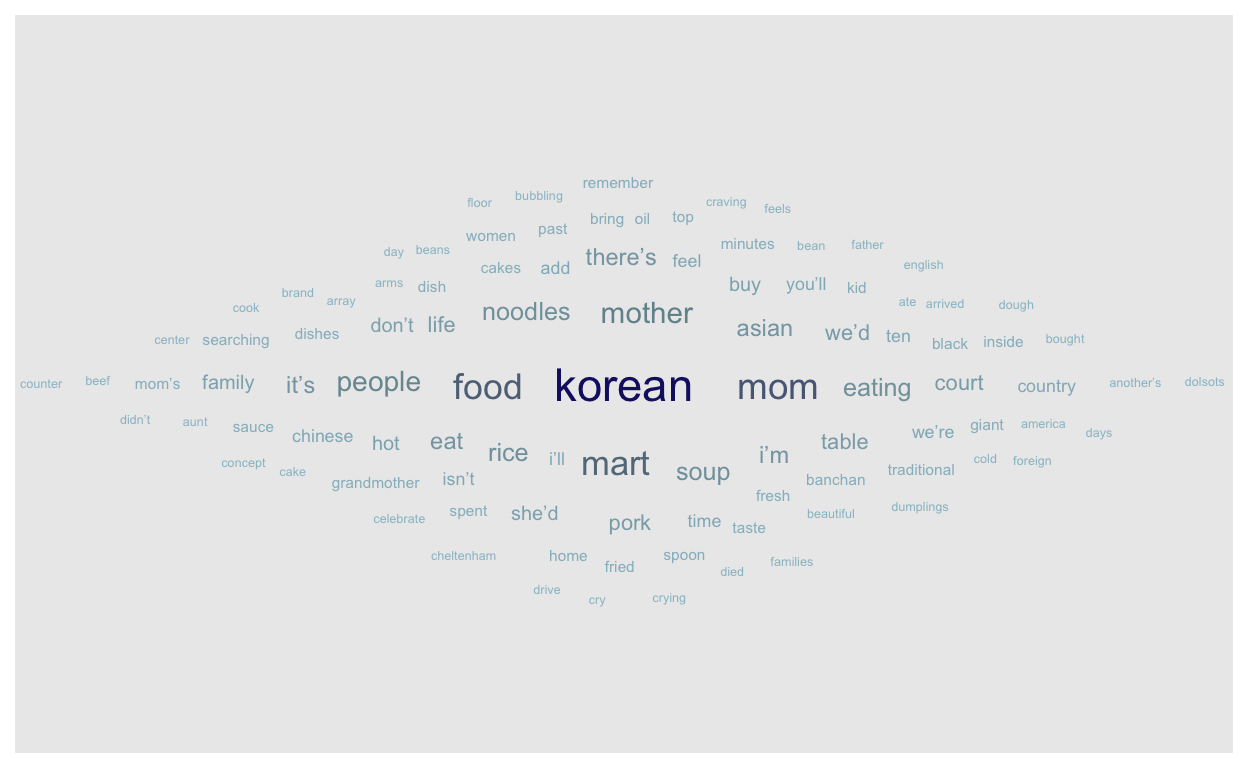
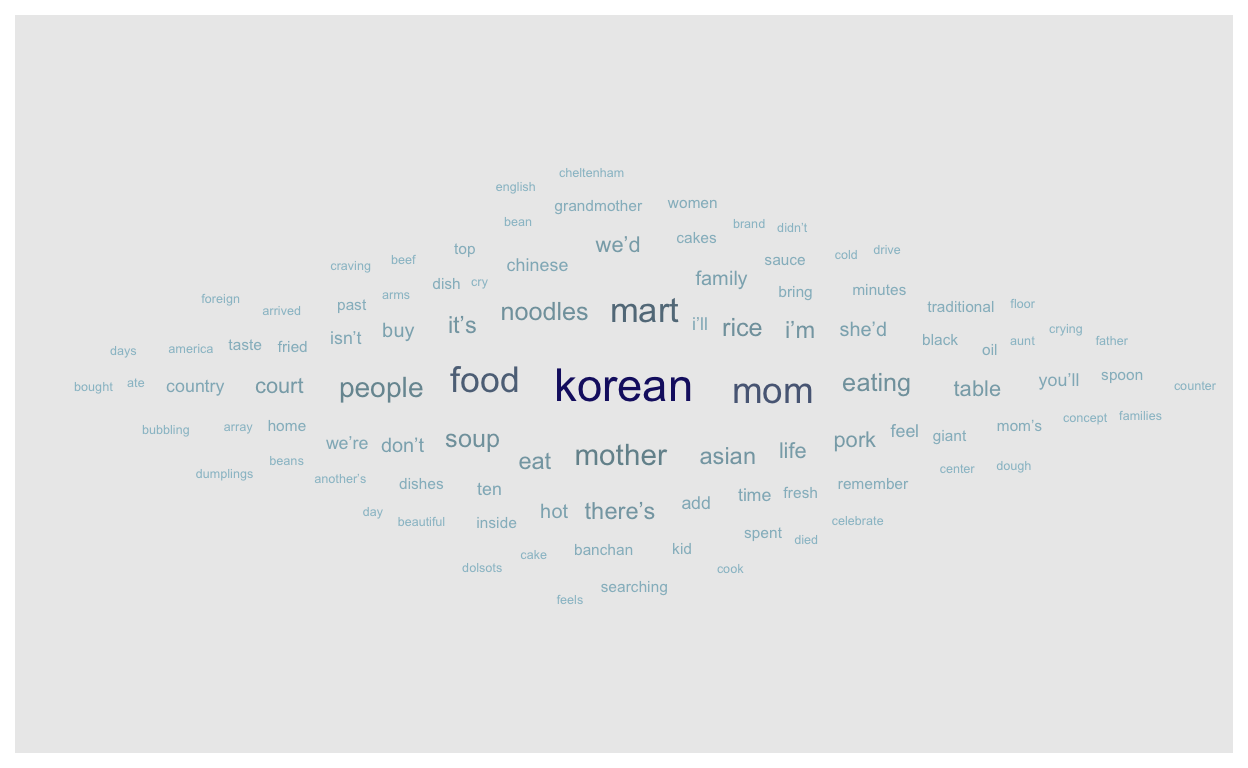
Updated text analysis post to match finalized assignment

diff --git a/docs/posts/2022-03-13-textanalysis/index.html b/docs/posts/2022-03-13-textanalysis/index.html
@@ -2405,7 +2405,7 @@ d-appendix d-footnote-list a.footnote-backlink {
 <a href="../../index.html">Home</a>
 <a href="../../about.html">About Me</a>
 <a href="../../blog.html">Blog</a>
-<a href="../../resume.pdf">CV</a>
+<a href="../../resume.pdf">Resume</a>
 <a href="javascript:void(0);" class="nav-toggle">&#9776;</a>
 </div>
 </nav>
@@ -2430,12 +2430,12 @@ d-appendix d-footnote-list a.footnote-backlink {
 <div class="d-article">
 <h2 id="overview">Overview</h2>
 <h4 id="summary">Summary</h4>
-<p>In 2018, Michelle Zauner wrote an essay for the New Yorker about her connections with the Korean supermarket, H Mart, to her late mother. This piece later turned into a full-book that debuted on the The New York Times nonfiction best-seller list. Text analysis will be performed on the original New Yorker article to find the most common words in this article to be put into a word cloud. Furthermore, sentiment analysis will be done on the text using the NRC Emotion Lexicon. The NRC Emotion Lexicon is a list that associates English words to two sentiments (negative and positive) and eight basic emotions (anger, fear, anticipation, trust, surprise, sadness, joy, and disgust).</p>
+<p>In 2018, Michelle Zauner wrote an essay for <em>The New Yorker</em> about her connections with the Korean supermarket, H Mart, to her late mother. This piece titled “Crying in H Mart” later turned into a full book that debuted on the <em>The New York Times</em> nonfiction best-seller list. Text analysis will be performed on the original <em>New Yorker</em> article to find the most common words in this article to be put into a word cloud. Furthermore, sentiment analysis will be done on the text using the NRC Emotion Lexicon. The NRC Emotion Lexicon is a list that associates English words to two sentiments (negative and positive) and eight basic emotions (anger, fear, anticipation, trust, surprise, sadness, joy, and disgust).</p>
 <figure>
 <img src="hmart.jpg" style="width:80.0%" alt="Crying in H Mart, 2018. Illustration by Andrea Mongia" /><figcaption aria-hidden="true"><em>Crying in H Mart, 2018.</em> Illustration by Andrea Mongia</figcaption>
 </figure>
 <h4 id="citation">Citation</h4>
-<p>Zauner, M. (2018, August 20). Crying in H Mart. The New Yorker. Retrieved March 6, 2022, from <a href="https://www.newyorker.com/culture/culture-desk/crying-in-h-mart" class="uri">https://www.newyorker.com/culture/culture-desk/crying-in-h-mart</a></p>
+<p>Zauner, M. (2018, August 20). Crying in H Mart. <em>The New Yorker</em>. Retrieved March 6, 2022, from <a href="https://www.newyorker.com/culture/culture-desk/crying-in-h-mart" class="uri">https://www.newyorker.com/culture/culture-desk/crying-in-h-mart</a></p>
 <h2 id="setup">Setup</h2>
 <div class="layout-chunk" data-layout="l-body">
 <details>
@@ -2490,7 +2490,7 @@ Show Code
 Show Code
 </summary>
 <div class="sourceCode">
-<pre class="sourceCode r"><code class="sourceCode r"><span class='co'># Getting word counts and wrangling to eliminate stop words</span>
+<pre class="sourceCode r"><code class="sourceCode r"><span class='co'># Retrieving word counts and wrangling to get rid of stop words</span>
 <span class='va'>hmart_words</span> <span class='op'>&lt;-</span> <span class='va'>hmart_lines</span> <span class='op'><a href='https://magrittr.tidyverse.org/reference/pipe.html'>%&gt;%</a></span> 
   <span class='fu'><a href='https://rdrr.io/pkg/tidytext/man/unnest_tokens.html'>unnest_tokens</a></span><span class='op'>(</span><span class='va'>word</span>, <span class='va'>full_text</span>, token <span class='op'>=</span> <span class='st'>'words'</span><span class='op'>)</span> <span class='op'><a href='https://magrittr.tidyverse.org/reference/pipe.html'>%&gt;%</a></span> 
   <span class='fu'><a href='https://dplyr.tidyverse.org/reference/select.html'>select</a></span><span class='op'>(</span><span class='op'>-</span><span class='va'>hmart_text</span><span class='op'>)</span> 
@@ -2530,6 +2530,7 @@ Show Code
 </details>
 <p><img src="textanalysis_files/figure-html5/unnamed-chunk-4-1.png" width="624" /></p>
 </div>
+<p><em><strong>Figure 1.</strong> Word cloud of the 100 most frequent words in the article, excluding stop words. Data: Zauner (2018).</em></p>
 <p><strong>Takeaways:</strong></p>
 <ul>
 <li>The most common word found in the article was “Korean”, showing the emphasis on Korean culture linked between Zauner’s Korean mother, Korean food, and the Korean supermarket, H Mart</li>
@@ -2543,13 +2544,15 @@ Show Code
 Show Code
 </summary>
 <div class="sourceCode">
-<pre class="sourceCode r"><code class="sourceCode r"><span class='va'>hmart_nrc</span> <span class='op'>&lt;-</span> <span class='va'>hmart_words_clean</span> <span class='op'><a href='https://magrittr.tidyverse.org/reference/pipe.html'>%&gt;%</a></span> 
+<pre class="sourceCode r"><code class="sourceCode r"><span class='co'># Retrieving NRC sentiments and getting NRC sentiment word counts</span>
+<span class='va'>hmart_nrc</span> <span class='op'>&lt;-</span> <span class='va'>hmart_words_clean</span> <span class='op'><a href='https://magrittr.tidyverse.org/reference/pipe.html'>%&gt;%</a></span> 
   <span class='fu'><a href='https://dplyr.tidyverse.org/reference/mutate-joins.html'>inner_join</a></span><span class='op'>(</span><span class='fu'><a href='https://rdrr.io/pkg/tidytext/man/get_sentiments.html'>get_sentiments</a></span><span class='op'>(</span><span class='st'>'nrc'</span><span class='op'>)</span><span class='op'>)</span>
 
 <span class='va'>hmart_nrc_counts</span> <span class='op'>&lt;-</span> <span class='va'>hmart_nrc</span> <span class='op'><a href='https://magrittr.tidyverse.org/reference/pipe.html'>%&gt;%</a></span> 
   <span class='fu'><a href='https://dplyr.tidyverse.org/reference/count.html'>count</a></span><span class='op'>(</span><span class='va'>sentiment</span><span class='op'>)</span> <span class='op'><a href='https://magrittr.tidyverse.org/reference/pipe.html'>%&gt;%</a></span> 
   <span class='fu'><a href='https://dplyr.tidyverse.org/reference/arrange.html'>arrange</a></span><span class='op'>(</span><span class='op'>-</span><span class='va'>n</span><span class='op'>)</span> 
 
+<span class='co'># Plotting the results of NRC sentiment analysis</span>
 <span class='fu'><a href='https://ggplot2.tidyverse.org/reference/ggplot.html'>ggplot</a></span><span class='op'>(</span><span class='va'>hmart_nrc_counts</span>, 
        <span class='fu'><a href='https://ggplot2.tidyverse.org/reference/aes.html'>aes</a></span><span class='op'>(</span>x <span class='op'>=</span> <span class='fu'><a href='https://forcats.tidyverse.org/reference/fct_reorder.html'>fct_reorder</a></span><span class='op'>(</span><span class='va'>sentiment</span>, <span class='va'>n</span><span class='op'>)</span>, y <span class='op'>=</span> <span class='va'>n</span>, fill <span class='op'>=</span> <span class='va'>n</span><span class='op'>)</span><span class='op'>)</span> <span class='op'>+</span>
   <span class='fu'><a href='https://ggplot2.tidyverse.org/reference/geom_bar.html'>geom_col</a></span><span class='op'>(</span><span class='op'>)</span> <span class='op'>+</span>
@@ -2563,6 +2566,7 @@ Show Code
 </details>
 <p><img src="textanalysis_files/figure-html5/unnamed-chunk-5-1.png" width="624" /></p>
 </div>
+<p><em><strong>Figure 2.</strong> Counts of words associated with two sentiments (negative and positive) and eight basic emotions (anger, fear, anticipation, trust, surprise, sadness, joy, and disgust) based on the NRC Emotion Lexicon. Data: Zauner (2018).</em></p>
 <p><strong>Takeaways:</strong></p>
 <ul>
 <li>Despite the article dealing with grief, there were more counts of words with positive associations than negative. This possibly correlates with Zauner’s fond memories of her mother being more present in the article rather than discussing her mother’s death</li>

diff --git a/_posts/2022-03-13-textanalysis/textanalysis.html b/_posts/2022-03-13-textanalysis/textanalysis.html
@@ -1484,12 +1484,12 @@ code span.wa { color: #5e5e5e; font-style: italic; } /* Warning */
 <div class="d-article">
 <h2 id="overview">Overview</h2>
 <h4 id="summary">Summary</h4>
-<p>In 2018, Michelle Zauner wrote an essay for the New Yorker about her connections with the Korean supermarket, H Mart, to her late mother. This piece later turned into a full-book that debuted on the The New York Times nonfiction best-seller list. Text analysis will be performed on the original New Yorker article to find the most common words in this article to be put into a word cloud. Furthermore, sentiment analysis will be done on the text using the NRC Emotion Lexicon. The NRC Emotion Lexicon is a list that associates English words to two sentiments (negative and positive) and eight basic emotions (anger, fear, anticipation, trust, surprise, sadness, joy, and disgust).</p>
+<p>In 2018, Michelle Zauner wrote an essay for <em>The New Yorker</em> about her connections with the Korean supermarket, H Mart, to her late mother. This piece titled “Crying in H Mart” later turned into a full book that debuted on the <em>The New York Times</em> nonfiction best-seller list. Text analysis will be performed on the original <em>New Yorker</em> article to find the most common words in this article to be put into a word cloud. Furthermore, sentiment analysis will be done on the text using the NRC Emotion Lexicon. The NRC Emotion Lexicon is a list that associates English words to two sentiments (negative and positive) and eight basic emotions (anger, fear, anticipation, trust, surprise, sadness, joy, and disgust).</p>
 <figure>
 <img src="hmart.jpg" style="width:80.0%" alt="Crying in H Mart, 2018. Illustration by Andrea Mongia" /><figcaption aria-hidden="true"><em>Crying in H Mart, 2018.</em> Illustration by Andrea Mongia</figcaption>
 </figure>
 <h4 id="citation">Citation</h4>
-<p>Zauner, M. (2018, August 20). Crying in H Mart. The New Yorker. Retrieved March 6, 2022, from <a href="https://www.newyorker.com/culture/culture-desk/crying-in-h-mart" class="uri">https://www.newyorker.com/culture/culture-desk/crying-in-h-mart</a></p>
+<p>Zauner, M. (2018, August 20). Crying in H Mart. <em>The New Yorker</em>. Retrieved March 6, 2022, from <a href="https://www.newyorker.com/culture/culture-desk/crying-in-h-mart" class="uri">https://www.newyorker.com/culture/culture-desk/crying-in-h-mart</a></p>
 <h2 id="setup">Setup</h2>
 <div class="layout-chunk" data-layout="l-body">
 <details>
@@ -1544,7 +1544,7 @@ Show Code
 Show Code
 </summary>
 <div class="sourceCode">
-<pre class="sourceCode r"><code class="sourceCode r"><span class='co'># Getting word counts and wrangling to eliminate stop words</span>
+<pre class="sourceCode r"><code class="sourceCode r"><span class='co'># Retrieving word counts and wrangling to get rid of stop words</span>
 <span class='va'>hmart_words</span> <span class='op'>&lt;-</span> <span class='va'>hmart_lines</span> <span class='op'><a href='https://magrittr.tidyverse.org/reference/pipe.html'>%&gt;%</a></span> 
   <span class='fu'><a href='https://rdrr.io/pkg/tidytext/man/unnest_tokens.html'>unnest_tokens</a></span><span class='op'>(</span><span class='va'>word</span>, <span class='va'>full_text</span>, token <span class='op'>=</span> <span class='st'>'words'</span><span class='op'>)</span> <span class='op'><a href='https://magrittr.tidyverse.org/reference/pipe.html'>%&gt;%</a></span> 
   <span class='fu'><a href='https://dplyr.tidyverse.org/reference/select.html'>select</a></span><span class='op'>(</span><span class='op'>-</span><span class='va'>hmart_text</span><span class='op'>)</span> 
@@ -1584,6 +1584,7 @@ Show Code
 </details>
 <p><img src="textanalysis_files/figure-html5/unnamed-chunk-4-1.png" width="624" /></p>
 </div>
+<p><em><strong>Figure 1.</strong> Word cloud of the 100 most frequent words in the article, excluding stop words. Data: Zauner (2018).</em></p>
 <p><strong>Takeaways:</strong></p>
 <ul>
 <li>The most common word found in the article was “Korean”, showing the emphasis on Korean culture linked between Zauner’s Korean mother, Korean food, and the Korean supermarket, H Mart</li>
@@ -1597,13 +1598,15 @@ Show Code
 Show Code
 </summary>
 <div class="sourceCode">
-<pre class="sourceCode r"><code class="sourceCode r"><span class='va'>hmart_nrc</span> <span class='op'>&lt;-</span> <span class='va'>hmart_words_clean</span> <span class='op'><a href='https://magrittr.tidyverse.org/reference/pipe.html'>%&gt;%</a></span> 
+<pre class="sourceCode r"><code class="sourceCode r"><span class='co'># Retrieving NRC sentiments and getting NRC sentiment word counts</span>
+<span class='va'>hmart_nrc</span> <span class='op'>&lt;-</span> <span class='va'>hmart_words_clean</span> <span class='op'><a href='https://magrittr.tidyverse.org/reference/pipe.html'>%&gt;%</a></span> 
   <span class='fu'><a href='https://dplyr.tidyverse.org/reference/mutate-joins.html'>inner_join</a></span><span class='op'>(</span><span class='fu'><a href='https://rdrr.io/pkg/tidytext/man/get_sentiments.html'>get_sentiments</a></span><span class='op'>(</span><span class='st'>'nrc'</span><span class='op'>)</span><span class='op'>)</span>
 
 <span class='va'>hmart_nrc_counts</span> <span class='op'>&lt;-</span> <span class='va'>hmart_nrc</span> <span class='op'><a href='https://magrittr.tidyverse.org/reference/pipe.html'>%&gt;%</a></span> 
   <span class='fu'><a href='https://dplyr.tidyverse.org/reference/count.html'>count</a></span><span class='op'>(</span><span class='va'>sentiment</span><span class='op'>)</span> <span class='op'><a href='https://magrittr.tidyverse.org/reference/pipe.html'>%&gt;%</a></span> 
   <span class='fu'><a href='https://dplyr.tidyverse.org/reference/arrange.html'>arrange</a></span><span class='op'>(</span><span class='op'>-</span><span class='va'>n</span><span class='op'>)</span> 
 
+<span class='co'># Plotting the results of NRC sentiment analysis</span>
 <span class='fu'><a href='https://ggplot2.tidyverse.org/reference/ggplot.html'>ggplot</a></span><span class='op'>(</span><span class='va'>hmart_nrc_counts</span>, 
        <span class='fu'><a href='https://ggplot2.tidyverse.org/reference/aes.html'>aes</a></span><span class='op'>(</span>x <span class='op'>=</span> <span class='fu'><a href='https://forcats.tidyverse.org/reference/fct_reorder.html'>fct_reorder</a></span><span class='op'>(</span><span class='va'>sentiment</span>, <span class='va'>n</span><span class='op'>)</span>, y <span class='op'>=</span> <span class='va'>n</span>, fill <span class='op'>=</span> <span class='va'>n</span><span class='op'>)</span><span class='op'>)</span> <span class='op'>+</span>
   <span class='fu'><a href='https://ggplot2.tidyverse.org/reference/geom_bar.html'>geom_col</a></span><span class='op'>(</span><span class='op'>)</span> <span class='op'>+</span>
@@ -1617,6 +1620,7 @@ Show Code
 </details>
 <p><img src="textanalysis_files/figure-html5/unnamed-chunk-5-1.png" width="624" /></p>
 </div>
+<p><em><strong>Figure 2.</strong> Counts of words associated with two sentiments (negative and positive) and eight basic emotions (anger, fear, anticipation, trust, surprise, sadness, joy, and disgust) based on the NRC Emotion Lexicon. Data: Zauner (2018).</em></p>
 <p><strong>Takeaways:</strong></p>
 <ul>
 <li>Despite the article dealing with grief, there were more counts of words with positive associations than negative. This possibly correlates with Zauner’s fond memories of her mother being more present in the article rather than discussing her mother’s death</li>

diff --git a/docs/blog.html b/docs/blog.html
@@ -2393,7 +2393,7 @@ code span.wa { color: #5e5e5e; font-style: italic; } /* Warning */
 <a href="index.html">Home</a>
 <a href="about.html">About Me</a>
 <a href="blog.html">Blog</a>
-<a href="resume.pdf">CV</a>
+<a href="resume.pdf">Resume</a>
 <a href="javascript:void(0);" class="nav-toggle">&#9776;</a>
 </div>
 </nav>
@@ -2537,6 +2537,23 @@ function init_posts_list() {
 <div class="posts-container posts-apply-limit l-page">
 <div class="posts-list">
 <h1 class="posts-list-caption" data-caption="Blog">Blog</h1>
+<a href="posts/2022-03-13-lake/" class="post-preview">
+<script class="post-metadata" type="text/json">{"categories":[]}</script>
+<div class="metadata">
+<div class="publishedDate">March 13, 2022</div>
+<div class="dt-authors">
+<div class="dt-author">Devin Ngo</div>
+</div>
+</div>
+<div class="thumbnail">
+<img src="posts/2022-03-13-lake/lake_files/figure-html5/unnamed-chunk-2-1.png"/>
+</div>
+<div class="description">
+<h2>Data Visualization Practice</h2>
+<div class="dt-tags"></div>
+<p>Practicing data visualization skills through adding text and other descriptive elements to a graph of Mono Lake Levels</p>
+</div>
+</a>
 <a href="posts/2022-03-13-nls/" class="post-preview">
 <script class="post-metadata" type="text/json">{"categories":[]}</script>
 <div class="metadata">
@@ -2569,23 +2586,6 @@ function init_posts_list() {
 <h2>Text Wrangling and Sentiment Analysis</h2>
 <div class="dt-tags"></div>
 <p>Performing text analysis to observe the most common used words in an article and the most sentiment of the words in the article.</p>
-</div>
-</a>
-<a href="posts/2022-03-13-lake/" class="post-preview">
-<script class="post-metadata" type="text/json">{"categories":[]}</script>
-<div class="metadata">
-<div class="publishedDate">March 13, 2022</div>
-<div class="dt-authors">
-<div class="dt-author">Devin Ngo</div>
-</div>
-</div>
-<div class="thumbnail">
-<img src="posts/2022-03-13-lake/lake_files/figure-html5/unnamed-chunk-2-1.png"/>
-</div>
-<div class="description">
-<h2>Data Visualization Practice</h2>
-<div class="dt-tags"></div>
-<p>Practicing data visualization skills through adding text and other descriptive elements to a graph of Mono Lake Levels</p>
 </div>
 </a>
 <a href="posts/2022-02-22-snowshoehares/" class="post-preview">

diff --git a/docs/posts/2022-01-21-welcome/index.html b/docs/posts/2022-01-21-welcome/index.html
@@ -2405,7 +2405,7 @@ d-appendix d-footnote-list a.footnote-backlink {
 <a href="../../index.html">Home</a>
 <a href="../../about.html">About Me</a>
 <a href="../../blog.html">Blog</a>
-<a href="../../resume.pdf">CV</a>
+<a href="../../resume.pdf">Resume</a>
 <a href="javascript:void(0);" class="nav-toggle">&#9776;</a>
 </div>
 </nav>

diff --git a/docs/posts/2022-02-22-snowshoehares/index.html b/docs/posts/2022-02-22-snowshoehares/index.html
@@ -2407,7 +2407,7 @@ d-appendix d-footnote-list a.footnote-backlink {
 <a href="../../index.html">Home</a>
 <a href="../../about.html">About Me</a>
 <a href="../../blog.html">Blog</a>
-<a href="../../resume.pdf">CV</a>
+<a href="../../resume.pdf">Resume</a>
 <a href="javascript:void(0);" class="nav-toggle">&#9776;</a>
 </div>
 </nav>

diff --git a/docs/posts/2022-03-13-lake/index.html b/docs/posts/2022-03-13-lake/index.html
@@ -2405,7 +2405,7 @@ d-appendix d-footnote-list a.footnote-backlink {
 <a href="../../index.html">Home</a>
 <a href="../../about.html">About Me</a>
 <a href="../../blog.html">Blog</a>
-<a href="../../resume.pdf">CV</a>
+<a href="../../resume.pdf">Resume</a>
 <a href="javascript:void(0);" class="nav-toggle">&#9776;</a>
 </div>
 </nav>

diff --git a/docs/posts/2022-03-13-nls/index.html b/docs/posts/2022-03-13-nls/index.html
@@ -2407,7 +2407,7 @@ d-appendix d-footnote-list a.footnote-backlink {
 <a href="../../index.html">Home</a>
 <a href="../../about.html">About Me</a>
 <a href="../../blog.html">Blog</a>
-<a href="../../resume.pdf">CV</a>
+<a href="../../resume.pdf">Resume</a>
 <a href="javascript:void(0);" class="nav-toggle">&#9776;</a>
 </div>
 </nav>

diff --git a/docs/index.html b/docs/index.html
@@ -971,7 +971,7 @@
           <a href="index.html">Home</a>
           <a href="about.html">About Me</a>
           <a href="blog.html">Blog</a>
-          <a href="resume.pdf">CV</a>
+          <a href="resume.pdf">Resume</a>
           <a href="javascript:void(0);" class="nav-toggle">&#9776;</a>
           </div>
           </nav>

diff --git a/docs/about.html b/docs/about.html
@@ -2396,7 +2396,7 @@ code span.wa { color: #5e5e5e; font-style: italic; } /* Warning */
 <a href="index.html">Home</a>
 <a href="about.html">About Me</a>
 <a href="blog.html">Blog</a>
-<a href="resume.pdf">CV</a>
+<a href="resume.pdf">Resume</a>
 <a href="javascript:void(0);" class="nav-toggle">&#9776;</a>
 </div>
 </nav>
